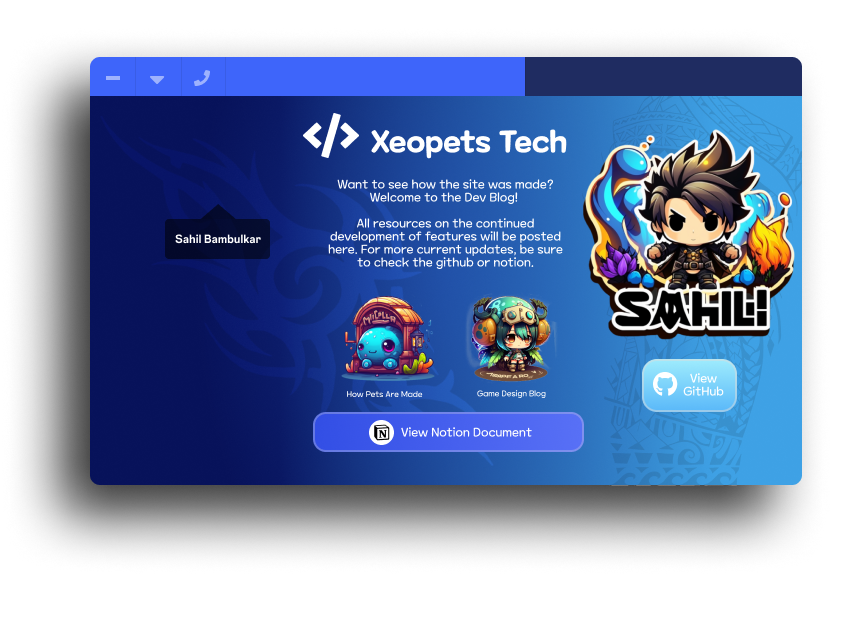
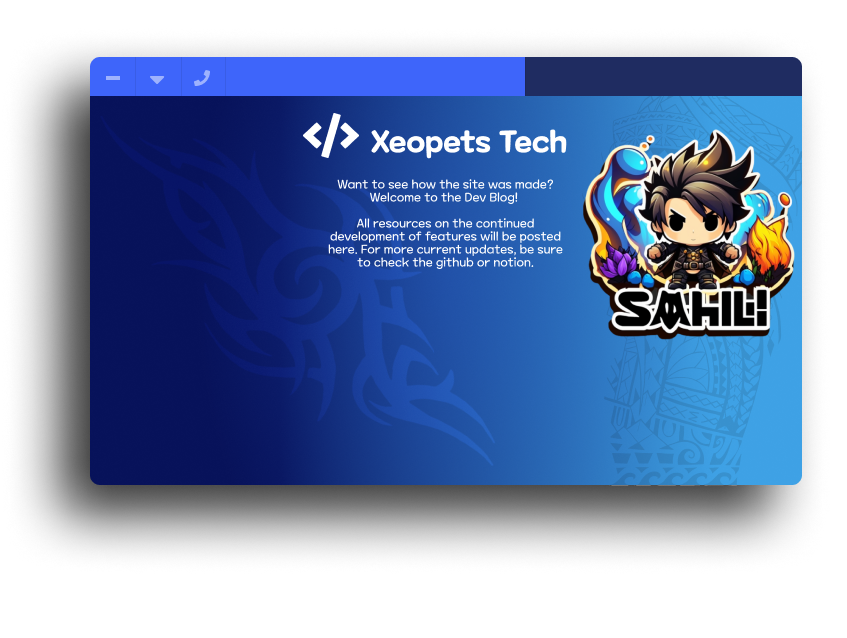
Fixed DevBlog issues

Changed region(s): [[0.3684, 0.4467, 0.706, 0.7147], [0.7367, 0.5361, 0.8902, 0.6552], [0.1842, 0.3276, 0.3377, 0.4169]]

diff --git a/src/screens/DevBlog/DevBlog.jsx b/src/screens/DevBlog/DevBlog.jsx
@@ -65,7 +65,7 @@ export const DevBlog = () => {
               <div className="text-wrapper-4">Dev Blog</div>
             </div>
           </div>
-          <img className="sahil-pixar-avatar" alt="Sahil pixar avatar" src="/img/sahil-pixar-avatar.png" />
+          <img className="sahiltopbody" alt="Sahiltopbody" src="/img/sahiltopbody-1.png" />
         </div>
       </div>
     </div>

diff --git a/src/screens/DevBlog/style.css b/src/screens/DevBlog/style.css
@@ -269,3 +269,12 @@
   top: 96px;
   width: 206px;
 }
+
+.dev-blog .sahiltopbody {
+  height: 360px;
+  left: 350px;
+  object-fit: cover;
+  position: absolute;
+  top: 128px;
+  width: 360px;
+}
